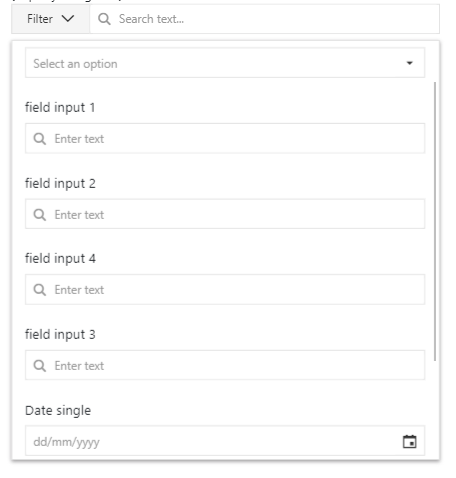
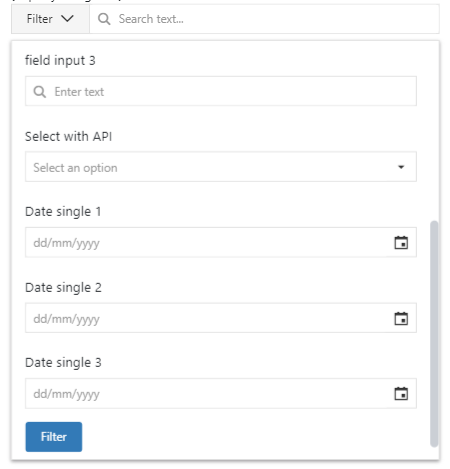
update scrollbar style

diff --git a/src/app/app.component.ts b/src/app/app.component.ts
@@ -65,10 +65,24 @@ export class AppComponent implements AfterViewInit, OnInit {
             },
             {
                 type: 'dx-datetime',
-                label: 'Date single',
-                name: 'FromDatetime',
+                label: 'Date single 1',
+                name: 'FromDatetime4',
                 placeholder: 'dd/mm/yyyy',
-                order: 6
+                order: 8
+            },
+            {
+                type: 'dx-datetime',
+                label: 'Date single 2',
+                name: 'FromDatetime3',
+                placeholder: 'dd/mm/yyyy',
+                order: 9
+            },
+            {
+                type: 'dx-datetime',
+                label: 'Date single 3',
+                name: 'FromDatetime2',
+                placeholder: 'dd/mm/yyyy',
+                order: 10
             },
             {
                 type: 'dx-select-with-api',
@@ -86,7 +100,7 @@ export class AppComponent implements AfterViewInit, OnInit {
                 type: 'dx-button',
                 label: 'Filter',
                 name: 'submitFilter',
-                order: 8
+                order: 99
             }
         ].sort((a, b) => a.order - b.order);
     }

diff --git a/src/app/filter-advanced/containers/filter-advanced/filter-advanced.component.scss b/src/app/filter-advanced/containers/filter-advanced/filter-advanced.component.scss
@@ -1,3 +1,11 @@
+$scroll-size-horizontal: 10px;
+$scroll-size-veritcal: 10px;
+$color-clear: transparent;
+$color-base: #ffffff;
+$color-bg-page-border: #cbcfd5;
+$color-mid: #888;
+$color-primary: #274ac9;
+
 .form-search {
     .input-group-text {
         padding: 0 0.75rem;
@@ -69,3 +77,33 @@
     border-width: 10px;
     margin-left: -10px;
 }
+
+@mixin scroll-bar-style {
+    ::-webkit-scrollbar {
+        height: $scroll-size-horizontal;
+        width: $scroll-size-veritcal;
+    }
+
+    ::-webkit-scrollbar-track {
+        background-color: $color-clear;
+
+        &:hover {
+            background-color: $color-base;
+        }
+    }
+
+    ::-webkit-scrollbar-thumb {
+        background-color: $color-bg-page-border;
+        border-radius: 10px;
+
+        &:hover {
+            background-color: $color-mid;
+        }
+    }
+
+    ::-webkit-scrollbar-button {
+        display: none;
+    }
+}
+
+@include scroll-bar-style();

diff --git a/readme.md b/readme.md
@@ -8,6 +8,8 @@
 
 ![demo filter advanced desktop](demo.png)
 
+![demo filter advanced with scrollbar](demo-scrollbar.png)
+
 ![demo filter advanced mobile](demo-mobile.png)
 
 -   Support lazy load module.
